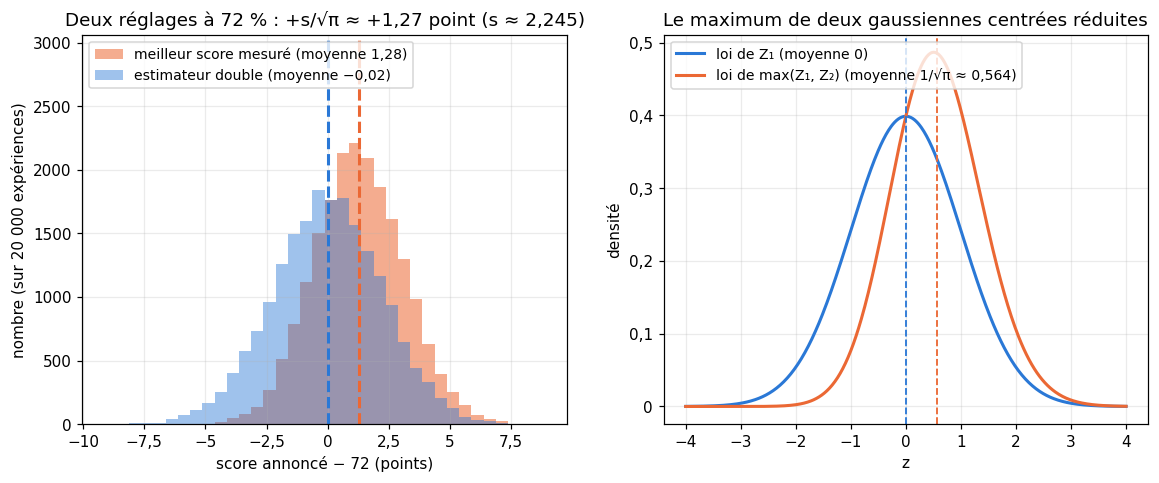
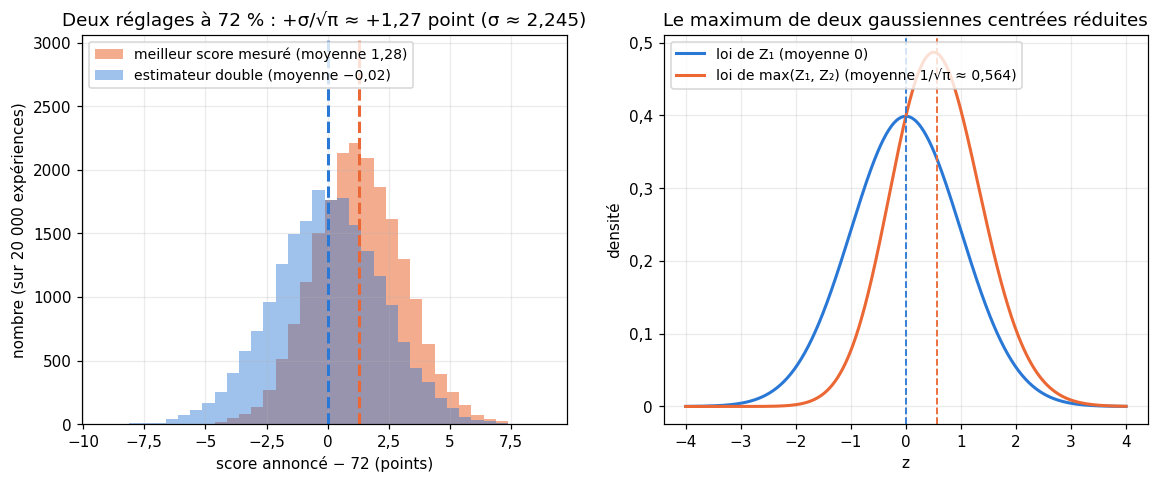
M26 (en cours) : fiche relue et corrigée, figures ; syllabus (lecture 170 min, prérequis de M11 précisé)
Claude-Session: https://claude.ai/code/session_01Nzd2BLBqKp1WGBHcAcsxs2

Changed region(s): [[0.0311, 0.0311, 0.528, 0.0621]]

diff --git a/tools/chapters/figures_m26.py b/tools/chapters/figures_m26.py
@@ -201,7 +201,7 @@ def pagerank_values() -> np.ndarray:
 
 
 def pagerank() -> None:
-    """§2: the web of four pages, node areas proportional to the PageRank."""
+    """§2: the web of four pages, node sizes increasing with the PageRank."""
     pr = pagerank_values()
     pos = {0: (0.0, 0.0), 1: (2.6, 1.3), 2: (2.6, -1.3), 3: (-2.4, -1.3)}
     fig, ax = plt.subplots(figsize=(7.4, 4.4))
@@ -380,7 +380,7 @@ def max_bias() -> None:
     ax.axvline(100 * s / math.sqrt(math.pi), color=C[1], lw=2, ls="--")
     ax.axvline(0, color=C[0], lw=2, ls="--")
     ax.set(xlabel="score annoncé − 72 (points)", ylabel=f"nombre (sur {N_EXPERIMENTS // 1000} 000 expériences)",
-           title=f"Deux réglages à 72 % : +s/√π ≈ +{fr(100 * s / math.sqrt(math.pi), 2)} point (s ≈ {fr(100 * s, 3)})")
+           title=f"Deux réglages à 72 % : +σ/√π ≈ +{fr(100 * s / math.sqrt(math.pi), 2)} point (σ ≈ {fr(100 * s, 3)})")
     ax.set_ylim(0, 1.32 * ax.get_ylim()[1])
     ax.legend(fontsize=9.2, loc="upper left")
     ax.grid(alpha=0.25)

diff --git a/docs/syllabus/data/partie_6.py b/docs/syllabus/data/partie_6.py
@@ -761,7 +761,7 @@ CHAPTERS = [
                      ("probabilité conditionnelle, probabilités totales", "M03"),
                      ("inégalité de Jensen", "M06"),
                      ("systèmes linéaires, inverse d'une matrice", "M09a"),
-                     ("moyenne incrémentale, ε-greedy (une politique stochastique)", "M11"),
+                     ("ε-greedy (une politique stochastique) ; la moyenne incrémentale est celle de workbookIA 11, démontrée par son ∂ 11.2", "M11"),
                      ("valeurs propres, diagonalisation et puissances, méthode de la puissance", "M12c"),
                      ("puissances d'une matrice d'adjacence : sommes sur les chemins d'un graphe", "M16"),
                      ("itérations linéaires, point fixe, itération de Richardson", "M19"),

diff --git a/docs/SYLLABUS.md b/docs/SYLLABUS.md
@@ -3629,7 +3629,7 @@ Les chaînes de Markov finies et ce qu'on calcule sur elles : la matrice de tran
 
 **Notions enseignées** : chaîne de Markov finie : propriété de Markov, matrice de transition stochastique (lignes de somme 1), graphe de transition · convention ligne pour les lois : μ_{n+1} = μ_n P, loi à n pas μ₀Pⁿ, Chapman-Kolmogorov P^{m+n} = P^m P^n, (Pⁿ)_ij comme somme sur les chemins ; convention colonne pour les fonctions : E[f(S_{n+1}) | S_n = i] = (Pf)_i · ‖P‖∞ = 1 et ρ(P) = 1 ; loi stationnaire π = πP, Σπ = 1 : existence (Perron-Frobenius admis), calcul par un système linéaire ou par la méthode de la puissance · chaîne irréductible, apériodique : unicité de π et convergence de μ₀Pⁿ (énoncées) ; contre-exemples (chaîne périodique, chaîne à deux classes) ; vitesse de convergence fixée par |λ₂| · PageRank : le surfeur aléatoire et le facteur d'amortissement · espérance conditionnelle E[X | Y = y] et formule de l'espérance totale (rappel de M25b), propriété de la tour, appliquées à l'analyse au premier pas · états absorbants et transitoires ; analyse au premier pas : probabilités d'absorption h = Qh + b, durées moyennes t = 1 + Qt ; matrice fondamentale (I − Q)⁻¹ = Σ Qᵗ · retour actualisé G = Σ γᵗ r(S_t) comme variable aléatoire ; valeur V(s) = E[G | S₀ = s] ; γ comme probabilité de continuer : durée géométrique d'espérance 1/(1 − γ) · processus de décision markovien : états, actions, matrices P_a, récompenses r(s, a, s′) et leur moyenne r(s, a) ; politique déterministe ou stochastique ; chaîne induite P_π, r_π ; valeur d'une action Q^π(s, a) · équation de Bellman d'une politique fixée V = r + γPV : système linéaire (I − γP)V = r, inversible pour γ < 1 (‖γP‖∞ = γ), série de Neumann V = Σ γᵗPᵗr, loi d'occupation actualisée (1 − γ)(I − γP)⁻¹ ; une fin possible : matrice sous-stochastique, γ = 1 permis quand la fin est sûre · opérateur de Bellman, γ-contraction pour ‖·‖∞ ; convergence géométrique en γᵏ ; borne a posteriori γ/(1 − γ)‖V_k − V_{k−1}‖∞ et critère d'arrêt ; itérations synchrones (Richardson de pas 1) et en place (Gauss-Seidel) ; théorème du point fixe de Banach (énoncé) · un opérateur avec un maximum : |max x − max y| ≤ max |x − y| ; arrêt optimal V = max(g, c + γPV), valeur de continuation et règle à seuil ; équation d'optimalité de Bellman, itération sur les valeurs et politique gloutonne (énoncées) · estimer une valeur par la moyenne de retours simulés, tronqués ; pas 1/n et pas constant ; conditions de Robbins-Monro Σαₜ = ∞, Σαₜ² < ∞ (énoncées) · erreur TD δ = r + γV(s′) − V(s) : son espérance conditionnelle est le résidu de Bellman ; Σ γᵏ δ_{t+k} = G_t − V(S_t) (télescopage) ; récompense ajoutée γΦ(s′) − Φ(s) · biais du maximum : E[max X̂ᵢ] ≥ max E[X̂ᵢ], E[max(Z₁, Z₂)] = 1/√π ; estimateur double (choisir sur un échantillon, mesurer sur l'autre)
 
-**Prérequis** : suites géométriques et leur somme, actualisation, moyennes mobile et exponentielle (R5) · logarithmes : résoudre γᵏ ≤ ε (R6) · loi géométrique et son espérance, loi normale, linéarité de l'espérance (M02b) · loi des grands nombres, erreur type d'une moyenne (M02c) · probabilité conditionnelle, probabilités totales (M03) · inégalité de Jensen (M06) · systèmes linéaires, inverse d'une matrice (M09a) · moyenne incrémentale, ε-greedy (une politique stochastique) (M11) · valeurs propres, diagonalisation et puissances, méthode de la puissance (M12c) · puissances d'une matrice d'adjacence : sommes sur les chemins d'un graphe (M16) · itérations linéaires, point fixe, itération de Richardson (M19) · tableaux à plusieurs axes, einsum (M20) · normes induites ‖·‖₁ et ‖·‖∞, ρ(A) ≤ ‖A‖, Aᵗ → 0 si ρ(A) < 1, applications contractantes et oubli du point de départ (M22) · espérance conditionnelle sachant une variable discrète, espérance et variance totales (M25b)
+**Prérequis** : suites géométriques et leur somme, actualisation, moyennes mobile et exponentielle (R5) · logarithmes : résoudre γᵏ ≤ ε (R6) · loi géométrique et son espérance, loi normale, linéarité de l'espérance (M02b) · loi des grands nombres, erreur type d'une moyenne (M02c) · probabilité conditionnelle, probabilités totales (M03) · inégalité de Jensen (M06) · systèmes linéaires, inverse d'une matrice (M09a) · ε-greedy (une politique stochastique) ; la moyenne incrémentale est celle de workbookIA 11, démontrée par son ∂ 11.2 (M11) · valeurs propres, diagonalisation et puissances, méthode de la puissance (M12c) · puissances d'une matrice d'adjacence : sommes sur les chemins d'un graphe (M16) · itérations linéaires, point fixe, itération de Richardson (M19) · tableaux à plusieurs axes, einsum (M20) · normes induites ‖·‖₁ et ‖·‖∞, ρ(A) ≤ ‖A‖, Aᵗ → 0 si ρ(A) < 1, applications contractantes et oubli du point de départ (M22) · espérance conditionnelle sachant une variable discrète, espérance et variance totales (M25b)
 
 **mymath** : `markov.py` (signatures figées) : `n_step_distribution`, `stationary_distribution`, `bellman_linear_solve`, `bellman_fixed_point_iterates`
 
